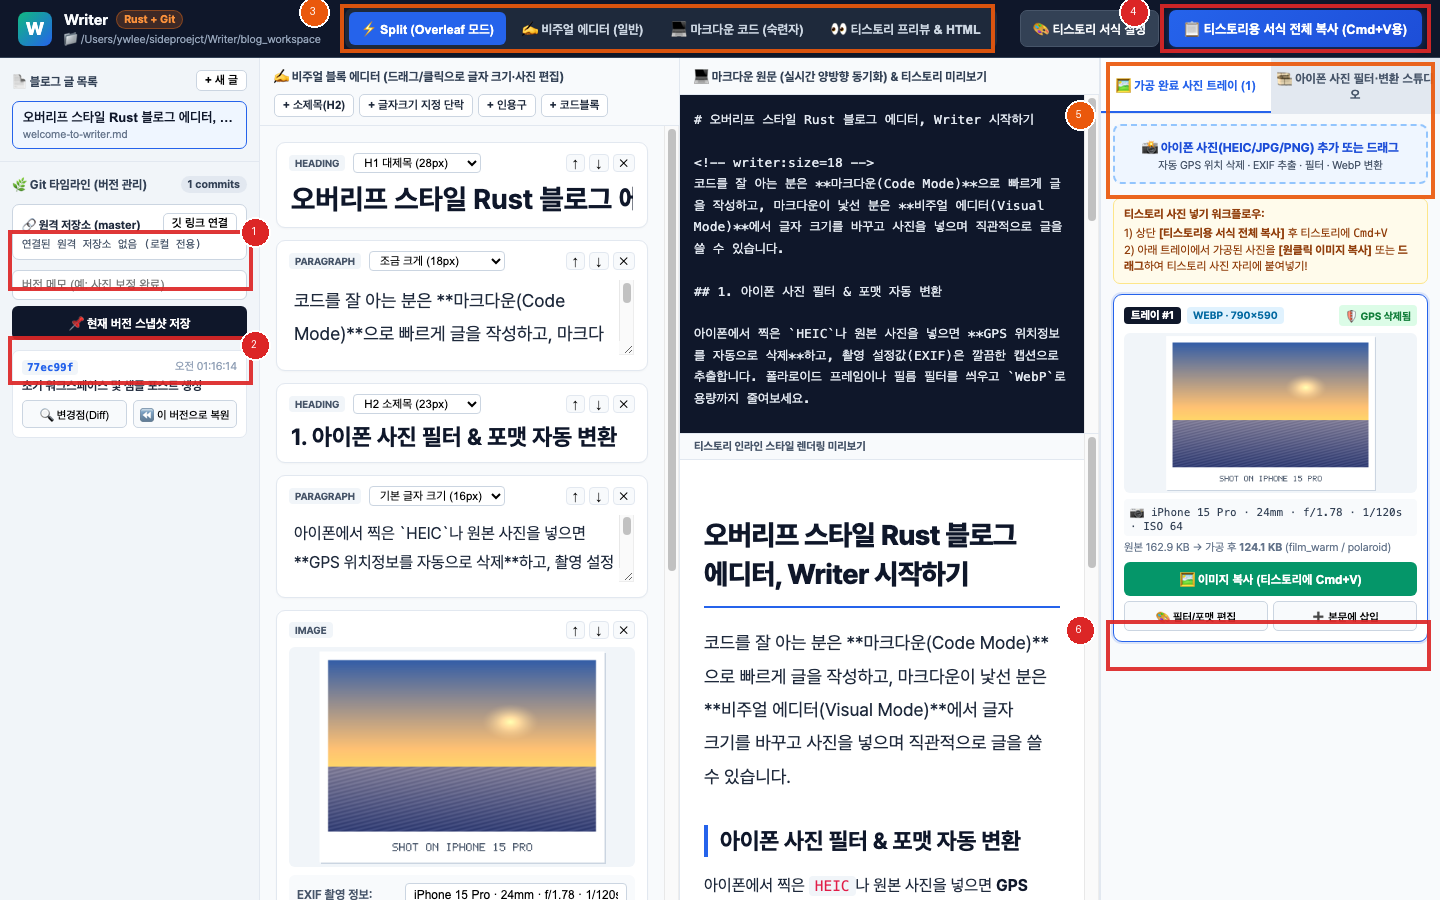
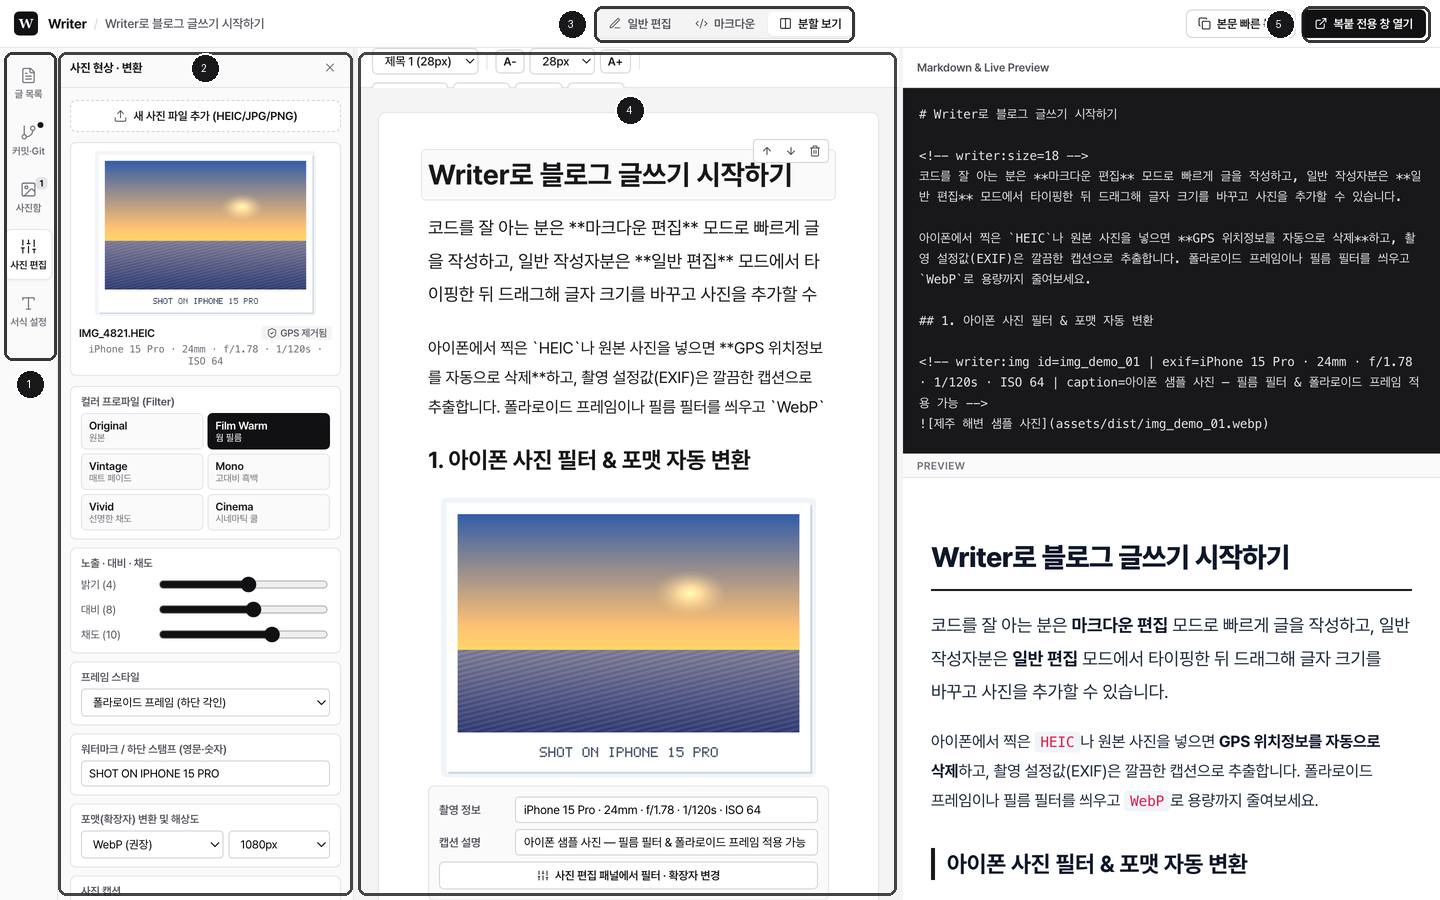
docs: add promotional hero showcase, copy-window guide screenshots, and redesigned README

diff --git a/src/App.tsx b/src/App.tsx
@@ -383,9 +383,15 @@ function MainEditorWindow() {
   });
 
   const [previewHtml, setPreviewHtml] = useState<string>("");
-  const [viewMode, setViewMode] = useState<EditorViewMode>("visual");
+  const [viewMode, setViewMode] = useState<EditorViewMode>(() => {
+    const m = new URLSearchParams(window.location.search).get("mode");
+    return m === "code" || m === "split" ? m : "visual";
+  });
 
-  const [activeMenu, setActiveMenu] = useState<LeftMenuTab | null>("posts");
+  const [activeMenu, setActiveMenu] = useState<LeftMenuTab | null>(() => {
+    const t = new URLSearchParams(window.location.search).get("tab") as LeftMenuTab | null;
+    return t || "posts";
+  });
   const [drawerWidth, setDrawerWidth] = useState<number>(296);
   const [splitPercent, setSplitPercent] = useState<number>(50);
 
@@ -1856,7 +1862,11 @@ function MainEditorWindow() {
                       lineHeight: preset.line_height,
                     }}
                     placeholder="내용을 입력하세요..."
-                    rows={Math.max(1, block.text.split("\n").length)}
+                    rows={Math.max(
+                      1,
+                      Math.ceil(block.text.length / 42),
+                      block.text.split("\n").length
+                    )}
                     value={block.text}
                     onFocus={() => setFocusedBlockIdx(idx)}
                     onChange={(e) =>

diff --git a/README.md b/README.md
@@ -1,37 +1,93 @@
-# Writer
+<p align="center">
+  <img src="src-tauri/icons/icon.png" width="88" height="88" alt="Writer Icon" />
+</p>
 
-**오버리프(Overleaf) 스타일의 이중 편집기(Markdown ↔ 비주얼 에디터) + 내장 Git 버전 관리 + 아이폰 사진(HEIC) 필터·포맷 변환 + 티스토리 원클릭 복사·붙여넣기**를 하나로 결합한 **Rust + Tauri v2** 기반 로컬 블로그 스튜디오입니다.
+<h1 align="center">Writer</h1>
+
+<p align="center">
+  <b>글쓰기, 아이폰 사진 현상, Git 버전 관리, 그리고 블로그 발행을 하나로 묶은 로컬 데스크톱 에디터</b><br/>
+  Built with <b>Rust</b> &amp; <b>Tauri v2</b> for macOS
+</p>
+
+<p align="center">
+  <img alt="Rust" src="https://img.shields.io/badge/Core-Rust_100%25-18181b?style=flat-square&logo=rust" />
+  <img alt="Tauri v2" src="https://img.shields.io/badge/Desktop-Tauri_v2-18181b?style=flat-square&logo=tauri" />
+  <img alt="Embedded Git" src="https://img.shields.io/badge/Version_Control-libgit2-18181b?style=flat-square&logo=git" />
+  <img alt="License" src="https://img.shields.io/badge/License-MIT-52525b?style=flat-square" />
+</p>
+
+<br/>
+
+<p align="center">
+  <img src="docs/images/hero_showcase.png" alt="Writer Hero Showcase" width="100%" />
+</p>
 
 ---
 
-## 화면 한눈에 보기 (클릭 가이드)
+## 왜 Writer인가요?
 
-![Writer UI 가이드](docs/images/guide_overview.png)
+블로그 글을 하나 발행하기 위해 **에디터 따로, 사진 보정 앱 따로, HEIC→WebP 변환기 따로, 티스토리 서식 깨짐 수정 따로** 하던 번거로움을 없애기 위해 설계되었습니다.
 
-| 번호 | 기능 | 클릭 및 사용 방법 |
+* **이중 편집 모드 (일반 편집 ↔ 마크다운)**
+  * 마크다운이 익숙하지 않은 분은 **일반 편집 모드**에서 종이 문서에 타이핑하듯 글을 쓰고 글자 크기(`A-` / `A+`)와 문단 스타일을 바꿀 수 있습니다.
+  * 코드가 익숙한 분은 **마크다운 편집** 또는 **분할 보기**로 원문을 직접 제어하며, 두 모드는 포맷 손실 없이 실시간 양방향 동기화됩니다.
+* **아이폰 사진(HEIC) 현상소 & 프라이버시 보호**
+  * 아이폰에서 찍은 `.HEIC`, `.JPG`, `.PNG` 사진을 드래그하면 **민감한 GPS 위치정보 메타데이터를 100% 제거**합니다.
+  * 조리개·셔터스피드·초점거리·ISO(`iPhone 15 Pro · 24mm · f/1.78 · 1/120s · ISO 64`)는 자동 추출하여 사진 캡션으로 만들어 줍니다.
+  * 필름 컬러 프로파일(`Film Warm`, `Vintage`, `Mono`, `Cinema`), 노출/대비/채도 보정, **폴라로이드 프레임 및 하단 스탬프 각인**, 그리고 **`WebP` / `JPEG` / `PNG` 확장자 변환**을 Rust 네이티브 엔진이 즉시 렌더링합니다.
+* **티스토리/외부 블로그 전용 '독립 복붙 윈도우'**
+  * 외부 CSS 클래스를 무시하는 티스토리 에디터 특성을 고려해, 모든 타이포그래피·인용구·코드 블록 구문 강조(`syntect`)를 **인라인 CSS(`style="..."`) HTML**로 컴파일합니다.
+  * **`[복붙 전용 창 열기]`** 버튼을 누르면 브라우저 옆에 띄워둘 수 있는 **별도의 독립 윈도우**가 열려, **① 본문 서식 복사 → ② 사진 순서대로 원클릭 클립보드 복사**로 발행을 끝낼 수 있습니다.
+* **명령어 없는 내장 Git 버전 관리**
+  * 실제 변경사항이 있을 때만 스냅샷 커밋이 활성화되며, 언제든 이전 스냅샷과의 변경점(`Diff`)을 비교하거나 원하는 시점으로 안전하게 복원(`Rollback`)할 수 있습니다.
+
+---
+
+## 인터페이스 가이드
+
+![Writer UI Guide](docs/images/guide_overview.png)
+
+| 번호 | 영역 | 설명 |
 | :---: | :--- | :--- |
-| **1** | **Git 원격 저장소 연결** | **`[깃 링크 연결]`** 버튼을 눌러 내 GitHub 저장소 주소(`https://...` 또는 `git@...`)를 등록하고 Push/Pull로 백업합니다. |
-| **2** | **Git 스냅샷 & 타임라인** | 메모를 적고 **`[📌 현재 버전 스냅샷 저장]`**을 누르면 로컬 Git에 커밋됩니다. 아래 목록에서 **변경점(Diff)** 확인 및 **이전 버전 복원**이 가능합니다. |
-| **3** | **에디터 모드 전환** | **Split(오버리프 모드)** / **비주얼 에디터(일반)** / **마크다운 코드(숙련자)** / **티스토리 프리뷰** 중 편한 모드를 선택합니다. |
-| **4** | **티스토리 서식 전체 복사** | 글 작성이 끝나면 **`[📋 티스토리용 서식 전체 복사]`**를 클릭한 뒤 티스토리 에디터에 `Cmd + V` 하면 제목·본문·인용구·코드 색상이 그대로 유지됩니다. |
-| **5** | **아이폰 사진 추가 & 스튜디오** | 아이폰 `HEIC`/`JPG`/`PNG` 사진을 드래그하거나 클릭해 추가합니다. **GPS 위치정보는 자동 삭제**되며, 필터·폴라로이드 프레임·WebP 변환을 적용할 수 있습니다. |
-| **6** | **가공 완료 사진 트레이** | 티스토리에 본문을 붙여넣은 뒤, 트레이에서 **`[🖼 이미지 복사]`**를 눌러 티스토리 사진 자리에 바로 `Cmd + V` 하세요. |
+| **1** | **좌측 통합 메뉴바** | **글 목록 · 커밋(Git) · 사진함 · 사진 편집 · 서식 설정**을 아이콘 클릭으로 전환합니다. 활성 아이콘을 다시 누르면 서랍 패널이 접혀 화면 전체를 에디터로 씁니다. |
+| **2** | **좌측 작업 서랍 패널** | 선택한 메뉴의 세부 도구가 열립니다. 우측 경계선을 마우스로 드래그해 너비를 자유롭게 조절할 수 있습니다. |
+| **3** | **편집 모드 전환** | **일반 편집**(문서형 블록) · **마크다운**(원문 코드) · **분할 보기**(양쪽 동시 비교) 중 원하는 작업 방식을 선택합니다. |
+| **4** | **문서 에디터 & 서식 툴바** | 문단 스타일(제목 1~3, 본문, 인용구, 코드)과 글자 크기(`13px`~`32px`), 사진 추가를 상단 고정 툴바에서 바로 조작합니다. |
+| **5** | **복붙 전용 창 열기** | 티스토리/블로그로 글과 사진을 옮기기 위한 **독립된 서브 윈도우**를 띄웁니다. |
 
 ---
 
-## 설치 및 실행 방법 (macOS)
+## 복붙 전용 윈도우 & Git 버전 관리
 
-### 1. 사전 요구사항 설치
-* **Rust** (1.75 이상):
-  ```bash
-  curl --proto '=https' --tlsv1.2 -sSf https://sh.rustup.rs | sh
-  ```
-* **Node.js** (18 이상) 및 **npm**:
-  ```bash
-  brew install node
-  ```
+![Git & Copy Window Showcase](docs/images/copy_window.png)
 
-### 2. 프로젝트 클론 및 실행
+### 1. 티스토리에 글 + 사진 1분 만에 발행하기
+1. 메인 창 우측 상단의 **`[복붙 전용 창 열기]`**를 클릭해 서브 윈도우를 티스토리 브라우저 창 옆에 띄웁니다.
+2. **`STEP 1: [본문 서식 전체 복사 (Cmd+V용)]`**를 누르고 티스토리 에디터에 `Cmd + V`로 붙여넣습니다. (제목 크기, 줄간격, 인용구, 코드 색상이 그대로 들어갑니다.)
+3. **`STEP 2: 가공 완료 사진 순서대로 복사`**에서 각 사진 우측의 **`[이미지 복사]`**를 눌러 티스토리 사진 자리에 순서대로 `Cmd + V` 합니다. (복사한 사진은 자동으로 `복사됨 ✓` 표시로 바뀝니다.)
+
+### 2. 내 블로그 글을 GitHub 원격 저장소에 백업·동기화하기
+1. GitHub에서 빈 저장소(예: `my-blog-posts`)를 생성합니다.
+2. Writer 좌측 메뉴바에서 **`커밋·Git`** 탭을 열고 **`원격 저장소`** 카드의 **`[연결]`** 버튼을 클릭합니다.
+   * **HTTPS 주소**: `https://github.com/내아이디/my-blog-posts.git` *(macOS 키체인/로그인 설정 시 토큰 생략 가능, 필요시 GitHub 토큰 `ghp_...` 입력)*
+   * **SSH 주소**: `git@github.com:내아이디/my-blog-posts.git`
+3. 글이나 사진 설정을 수정한 뒤 **`[변경사항 스냅샷 저장]`** → **`[Push]`**를 누르면 내 GitHub에 원본 글과 사진 레시피가 그대로 백업됩니다.
+   * *(로컬 블로그 데이터는 `~/Documents/WriterWorkspace`에 독립된 Git 저장소로 안전하게 보관됩니다.)*
+
+---
+
+## 설치 및 빌드 방법 (macOS)
+
+### 1. 사전 요구사항
+```bash
+# Rust 툴체인 설치
+curl --proto '=https' --tlsv1.2 -sSf https://sh.rustup.rs | sh
+
+# Node.js 설치 (Homebrew)
+brew install node
+```
+
+### 2. 클론 및 데스크톱 앱 실행
 ```bash
 git clone https://github.com/iamywl/Writer.git
 cd Writer
@@ -39,38 +95,16 @@ npm install
 npm run desktop
 ```
 
-### 3. 자동화 검증 테스트 실행
+### 3. 자동화 검증 테스트 실행 (`writer-core` + `writer-app` E2E)
 ```bash
 npm run test:rust
 ```
-*(마크다운 왕복 변환, 아이폰 EXIF 추출 및 GPS 0바이트 제거 검증, macOS HEIC→WebP 변환, 티스토리 인라인 HTML/구문 강조, Git 커밋·Diff·롤백 및 원격 Push 테스트가 모두 자동 실행됩니다.)*
-
----
-
-## 상세 사용법
-
-### 1. 앱 안에서 내 블로그 글 저장소(GitHub 등) 링크 연결하기
-
-앱을 실행(`npm run desktop`)하면 좌측 사이드바의 **`🌿 Git 타임라인`** 상단에 **`🔗 원격 저장소`** 카드가 있습니다.
-
-1. **GitHub에서 빈 저장소(Repository) 만들기**
-   * GitHub에서 예를 들어 `my-blog-posts`라는 Private(비공개) 또는 Public 저장소를 하나 만듭니다.
-2. **Writer 앱에서 `[깃 링크 연결]` 클릭**
-   * 좌측 사이드바의 **`[깃 링크 연결]`** 버튼을 누르고 복사한 주소를 붙여넣습니다.
-     * **HTTPS 방식**: `https://github.com/내아이디/my-blog-posts.git`
-       * *(맥에 이미 GitHub 로그인/키체인이 되어 있으면 토큰 칸은 비워두셔도 되고, 안 되어 있다면 GitHub Personal Access Token `ghp_...`을 입력하면 자동으로 인증됩니다.)*
-     * **SSH 방식**: `git@github.com:내아이디/my-blog-posts.git`
-3. **원클릭 백업 및 동기화**
-   * **`📌 현재 버전 스냅샷 저장`**: 내 컴퓨터(로컬 Git)에 글과 사진 편집 레시피를 커밋합니다.
-   * **`⬆ 원격 Push (백업)`**: 연결된 GitHub 링크로 내 글과 원본 사진, 필터 설정들을 그대로 올립니다.
-   * **`⬇ 원격 Pull (가져오기)`**: 다른 맥북이나 PC에서 글을 이어 쓸 때 최신 버전을 받아옵니다.
-
-> **참고**: 작성된 블로그 글과 사진 데이터는 프로젝트 폴더 안의 `blog_workspace/` 디렉토리에 별도의 독립된 Git 저장소로 관리됩니다.
-
----
-
-### 2. 티스토리에 글 + 사진 한 번에 옮기기
-
-1. 상단의 **`[🎨 티스토리 서식 설정]`**에서 제목 크기, 본문 글자 크기, 줄간격, 코드 하이라이팅 테마를 취향에 맞게 맞춥니다.
-2. **`[📋 티스토리용 서식 전체 복사 (Cmd+V용)]`** 버튼을 클릭하고 티스토리 글쓰기 창에 `Cmd + V`로 붙여넣습니다.
-3. 글 중간의 사진 자리(`📸 [사진 트레이 #1: ...]`)를 클릭한 뒤, Writer 우측 **가공 완료 사진 트레이**에서 **`[🖼 이미지 복사 (티스토리에 Cmd+V)]`** 버튼을 눌러 바로 붙여넣으면 완성됩니다.
+* **검증 항목 (8개 스위트)**:
+  1. `VisualBlock ↔ Markdown` 왕복 변환 무결성 테스트
+  2. `proptest` 기반 무작위 제목·글자 크기 문단 왕복 동치성 검증
+  3. 아이폰 EXIF 촬영 정보 추출 및 가공 후 **GPS 위치정보 0바이트 제거 검증**
+  4. macOS 네이티브 `HEIC` 디코딩 및 `WebP` 변환 파이프라인 검증
+  5. 티스토리 인라인 CSS 및 `syntect` 구문 강조 HTML 컴파일러 검증
+  6. 내장 Git 엔진 스냅샷 커밋 · 빈 스냅샷 차단 · Diff · 롤백 검증
+  7. Git 원격 저장소(`origin`) 연결 및 Push 통합 검증
+  8. 앱 부트스트랩 → 비주얼 편집 → 사진 레시피 렌더링 → Git 롤백 E2E 검증
